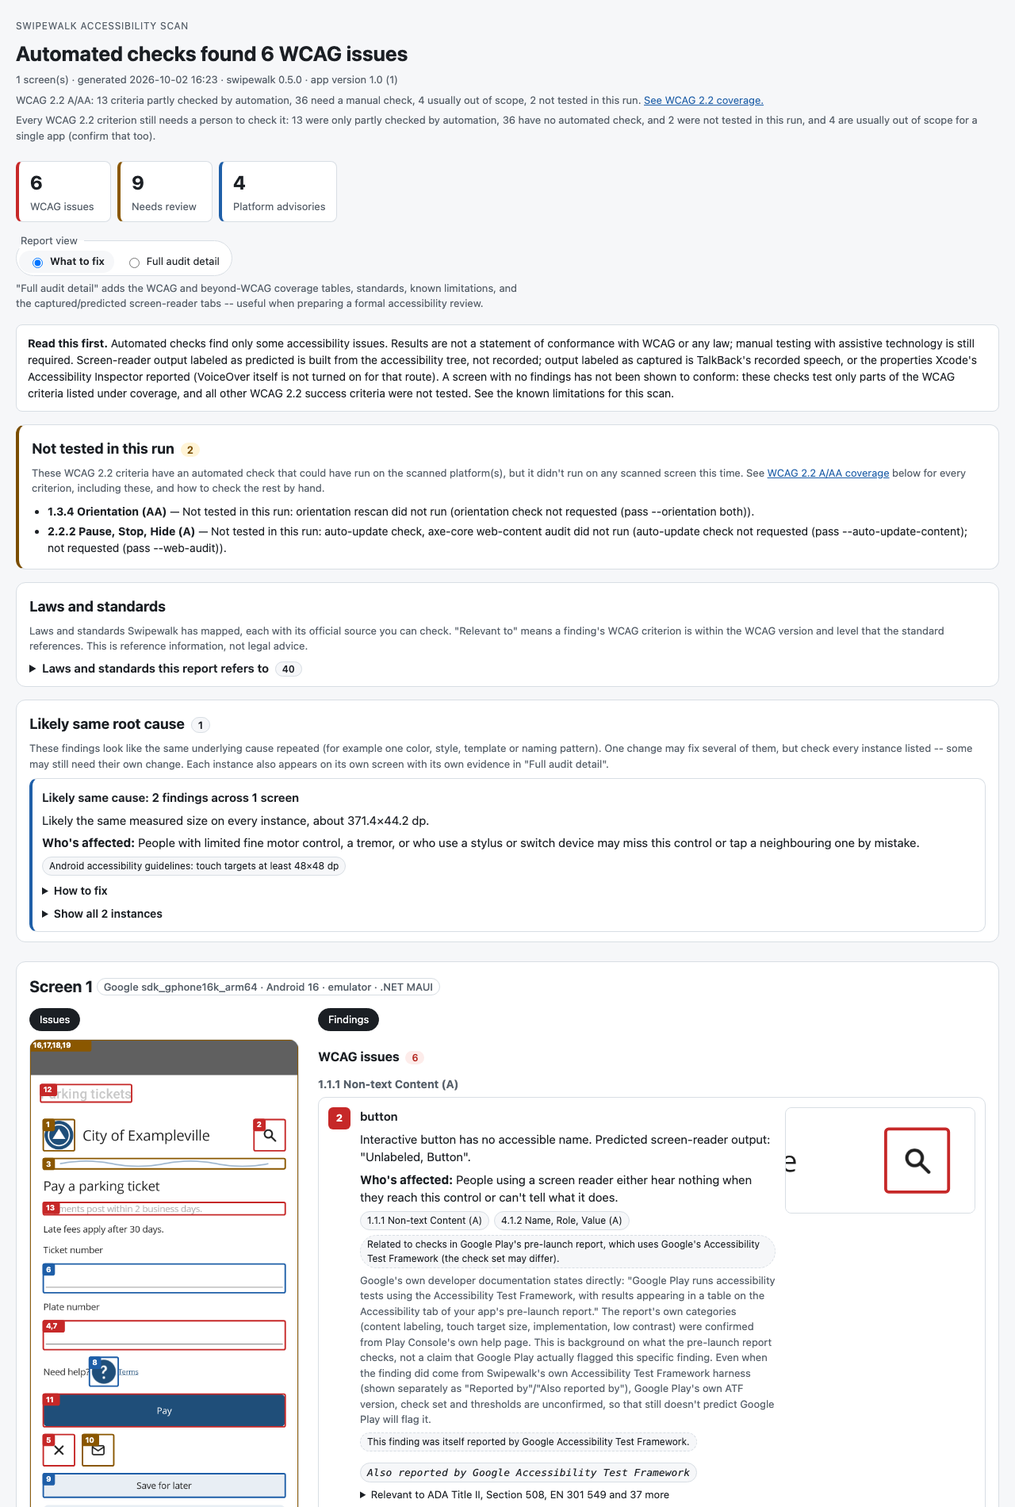
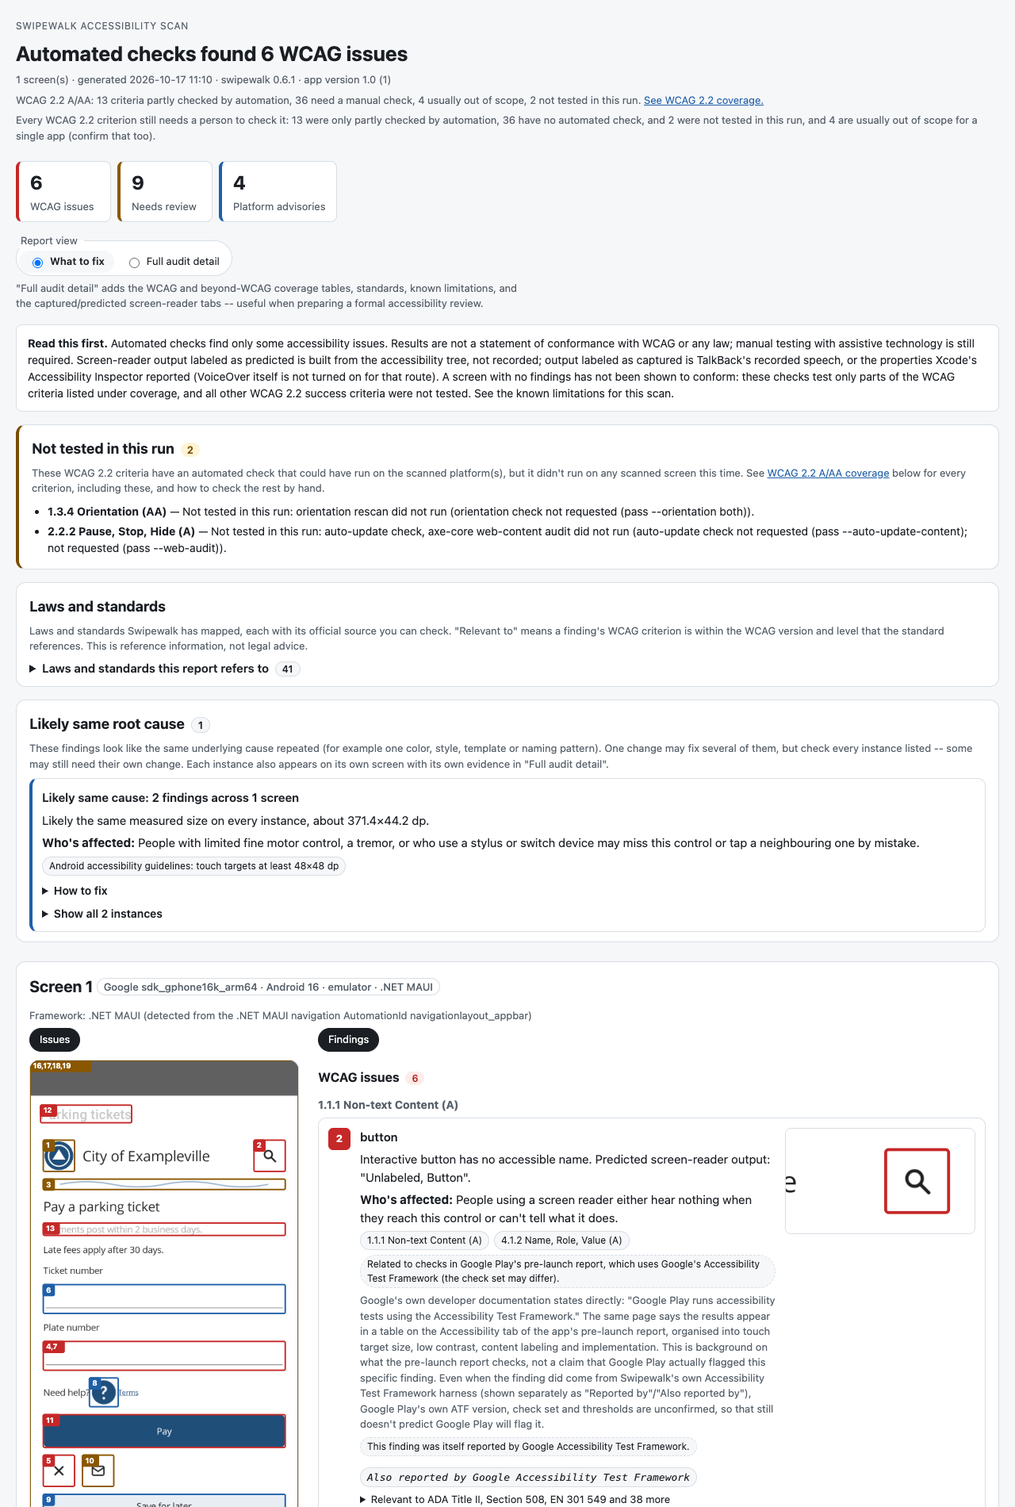
Update the public documentation for Swipewalk 0.6.2

Changed region(s): [[0.0312, 0.6521, 0.75, 1.0], [0.875, 0.7453, 0.9375, 0.8074]]

diff --git a/docs/standards.md b/docs/standards.md
@@ -16,7 +16,7 @@ Every mapping below links to its official source, so you can check how it applie
 | EN 301 549 v4.1.1 (`en-301-549-v4`) — European Union (and EEA) | [WCAG 2.2 AA](https://www.w3.org/TR/WCAG22/) | ICT products and services, including mobile apps (clause 11: non-web software); WCAG 2.2-aligned edition. | [source](https://www.etsi.org/deliver/etsi_en/301500_301599/301549/04.01.01_60/en_301549v040101p.pdf) | [archived copy](https://web.archive.org/web/20260923142717/https://www.etsi.org/deliver/etsi_en/301500_301599/301549/04.01.01_60/en_301549v040101p.pdf) | 2026-10-09 |
 | Public Sector Bodies (Websites and Mobile Applications) (No. 2) Accessibility Regulations 2018 (`uk-public-sector`) — United Kingdom | [WCAG 2.2 AA](https://www.w3.org/TR/WCAG22/) | Public sector websites and mobile apps developed for use by the public. The regulations name no WCAG version; GOV.UK guidance sets WCAG 2.2 AA. | [source](https://www.gov.uk/guidance/accessibility-requirements-for-public-sector-websites-and-apps) | [archived copy](https://web.archive.org/web/20260920020711/https://www.gov.uk/guidance/accessibility-requirements-for-public-sector-websites-and-apps) | 2026-10-09 |
 
-## Rule sources (ruleset 2026.09.46)
+## Rule sources (ruleset 2026.09.47)
 
 Reports record these versions. Later changes to WCAG, laws or platform guidelines are not reflected until Swipewalk is updated; the HTML report warns when a mapping was last reviewed more than a year earlier.
 
@@ -168,7 +168,7 @@ These are included by default, like the standards above: each issue's "Relevant 
 | Michigan SOM IT Technical Standard 1360.00.11, SOM Digital Standards for Websites and Applications (`us-mi`) — United States — Michigan | [WCAG 2.1 AA](https://www.w3.org/TR/WCAG21/) | Michigan executive branch departments' websites and applications, web and mobile. | [source](https://www.michigan.gov/som/digitalstandards) | [archived copy](http://web.archive.org/web/20260911214408/https://www.michigan.gov/som/digitalstandards) | 2026-10-09 |
 | Nebraska NITC Standard 2-101, Accessibility Policy (`us-ne`) — United States — Nebraska | [WCAG 2.1 AA](https://www.w3.org/TR/WCAG21/) | Nebraska state agencies' information and communication technology. | [source](https://nitc.nebraska.gov/docs/2-101.pdf) | [archived copy](https://web.archive.org/web/20260420223107/https://nitc.nebraska.gov/docs/2-101.pdf) | 2026-10-09 |
 | Nevada ADA Technology Accessibility Guidelines (OCIO Control No. 101, Rev. 2.1) (`us-nv`) — United States — Nevada | [WCAG 2.1 AA](https://www.w3.org/TR/WCAG21/) | Nevada state entities' information and communication technology, including software. | [source](https://judicial.nv.gov/uploadedFiles/adanewnvgov/content/Partners/Policies/ADA_WebsiteGuidelines_7-22-19.pdf) | [archived copy](http://web.archive.org/web/20191104205819/http://judicial.nv.gov:80/uploadedFiles/adanewnvgov/content/Partners/Policies/ADA_WebsiteGuidelines_7-22-19.pdf) | 2026-10-09 |
-| New Hampshire Information Technology Accessibility Policy (NHS0305, v4) (`us-nh`) — United States — New Hampshire | [WCAG 2.1 AA](https://www.w3.org/TR/WCAG21/) | New Hampshire state agencies' web content and mobile applications. | [source](https://www.nh.gov/sites/g/files/ehbemt936/files/documents/information-technology-accessibility-policy.pdf) | — | 2026-09-30 |
+| New Hampshire Information Technology Accessibility Policy (NHS0305, v4) (`us-nh`) — United States — New Hampshire | [WCAG 2.1 AA](https://www.w3.org/TR/WCAG21/) | New Hampshire state agencies' web content and mobile applications. | [source](https://www.nh.gov/sites/g/files/ehbemt936/files/documents/information-technology-accessibility-policy.pdf) | — | 2026-10-16 |
 | North Carolina Digital Accessibility and Usability Standard, v1.1 (`us-nc`) — United States — North Carolina | [WCAG 2.1 AA](https://www.w3.org/TR/WCAG21/) | North Carolina state agencies' public-facing digital services, including mobile apps. | [source](https://it.nc.gov/documents/digital-accessibility-usability-standard/open) | [archived copy](http://web.archive.org/web/20260813113615/https://it.nc.gov/documents/digital-accessibility-usability-standard/open) | 2026-10-09 |
 | Ohio Administrative Policy IT-09, Digital Accessibility (`us-oh`) — United States — Ohio | [WCAG 2.1 AA](https://www.w3.org/TR/WCAG21/) | Web content and mobile apps that Ohio state agencies, boards and commissions under the Governor make available to the public. | [source](https://das.ohio.gov/technology-and-strategy/policies/it-09) | — | 2026-10-13 |
 | Pennsylvania Digital Accessibility Policy (`us-pa`) — United States — Pennsylvania | [WCAG 2.1 AA](https://www.w3.org/TR/WCAG21/) | Pennsylvania offices and agencies' digital content and services. | [source](https://www.pa.gov/content/dam/copapwp-pagov/en/oa/documents/policies/it-policies/digital%20accessibility%20policy.pdf) | — | 2026-10-09 |
@@ -203,7 +203,7 @@ Researched, but not mapped as a standard, each with one short reason. Only "no r
 | [California (agency websites, Gov. Code §11546.7)](https://leginfo.legislature.ca.gov/faces/codes_displaySection.xhtml?lawCode=GOV&sectionNum=11546.7) | websites only | 2026-09-26 |
 | [New Jersey (K-12 schools, N.J.S.A. 18A:36-35.1)](https://law.justia.com/codes/new-jersey/title-18a/section-18a-36-35-1/) | websites only | 2026-09-26 |
 | [New Jersey (State agencies, P.L.2025, c.289)](https://pub.njleg.gov/bills/2024/PL25/289_.HTM) | websites only | 2026-10-13 |
-| [Idaho](https://ita.idaho.gov/wp-content/uploads/2025/07/S5120-ADA.pdf) | websites only | 2026-09-26 |
+| [Idaho](https://ita.idaho.gov/wp-content/uploads/2025/07/S5120-ADA.pdf) | websites only | 2026-10-16 |
 | [Iowa](https://ocio.iowa.gov/sites/default/files/standards/2017-07/website_accessibility_standard_2017.pdf) | websites only | 2026-09-26 |
 | [Ontario, Canada](https://www.ontario.ca/laws/regulation/110191) | websites only | 2026-10-13 |
 | [Canada (federal)](https://laws-lois.justice.gc.ca/eng/regulations/SOR-2021-241/nifnev.html) | not in force yet | 2026-09-26 |
@@ -230,7 +230,7 @@ Researched, but not mapped as a standard, each with one short reason. Only "no r
 |---|---|---|---|
 | Apple | [Human Interface Guidelines: Accessibility](https://developer.apple.com/design/human-interface-guidelines/accessibility) -- Apple's own HIG names the WCAG AA contrast thresholds directly (4.5:1 up to 17pt; 3:1 at 18pt or for bold text of any size -- WCAG's own large-text 3:1 threshold is 18pt, or 14pt bold, so HIG's "bold at any size" allowance is slightly looser) and recommends letting people enlarge text by at least 200 percent (matching WCAG 1.4.4). Apple's own default iOS/iPadOS touch target is 44x44pt, with a stated minimum of 28x28pt -- both numerically larger than WCAG 2.5.8's 24x24 CSS px minimum, though the units differ, so don't treat this as a strict comparison. | 1.4.3, 1.4.4, 1.4.1, 2.5.8, 4.1.2 | 2026-09-25 |
 | Apple | [Accessibility Nutrition Labels](https://developer.apple.com/help/app-store-connect/manage-app-accessibility/overview-of-accessibility-nutrition-labels) -- Nine labelable features (VoiceOver, Voice Control, Larger Text, Dark Interface, Differentiate Without Color Alone, Sufficient Contrast, Reduced Motion, Captions, Audio Descriptions) are, in Swipewalk's own mapping, related to these WCAG criteria -- Apple's page does not itself cite WCAG. Currently voluntary; Apple has stated intent to make it mandatory later, with no date confirmed, and says it may contact a developer if a label looks intentionally misleading or harmful. | 1.4.3, 1.4.4, 1.4.1, 2.3.3 (AAA), 1.2.2, 1.2.4, 1.2.1, 1.2.3, 1.2.5 | 2026-09-25 |
-| Google Play | [Pre-launch report (Accessibility Test Framework)](https://developer.android.com/guide/topics/ui/accessibility/testing) -- Google's own developer documentation states directly: "Google Play runs accessibility tests using the Accessibility Test Framework, with results appearing in a table on the Accessibility tab of your app's pre-launch report." The report's own categories (content labeling, touch target size, implementation, low contrast) were confirmed from Play Console's own help page. This is background on what the pre-launch report checks, not a claim that Google Play actually flagged this specific finding. Even when the finding did come from Swipewalk's own Accessibility Test Framework harness (shown separately as "Reported by"/"Also reported by"), Google Play's own ATF version, check set and thresholds are unconfirmed, so that still doesn't predict Google Play will flag it. | 4.1.2, 2.5.8, 1.4.3, 1.1.1 | 2026-09-25 |
+| Google Play | [Pre-launch report (Accessibility Test Framework)](https://developer.android.com/guide/topics/ui/accessibility/testing) -- Google's own developer documentation states directly: "Google Play runs accessibility tests using the Accessibility Test Framework." The same page says the results appear in a table on the Accessibility tab of the app's pre-launch report, organised into touch target size, low contrast, content labeling and implementation. This is background on what the pre-launch report checks, not a claim that Google Play actually flagged this specific finding. Even when the finding did come from Swipewalk's own Accessibility Test Framework harness (shown separately as "Reported by"/"Also reported by"), Google Play's own ATF version, check set and thresholds are unconfirmed, so that still doesn't predict Google Play will flag it. | 4.1.2, 2.5.8, 1.4.3, 1.1.1 | 2026-10-16 |
 
 ## Criteria Swipewalk maps findings to
 

diff --git a/docs/accessibility-statement.md b/docs/accessibility-statement.md
@@ -6,7 +6,7 @@ app for macOS, the HTML reports it produces, and the PDF it can export (`swipewa
 not a statement of conformance: automated and developer testing cannot show that software meets every
 requirement, and some checks listed below still need to be done by people who use assistive technology every day.
 
-Last reviewed: 2026-10-13 (the Laws and standards page search box now uses the filter-box style; not yet re-tested); earlier: 2026-10-09 (added the Known issues row on VoiceOver and the Report page: one Mac, macOS 27, scripted VoiceOver and a minimal test app; a person has not checked it); earlier: 2026-10-08 (the generated reports were run through axe-core, read by hand and read with a scripted VoiceOver in Safari, with fixes; not walked with VoiceOver by a person); earlier: 2026-10-07 (read again against the 0.6.0 changes; nothing was re-tested since the checks of 2026-10-06 below); earlier: 2026-10-06 (keyboard and VoiceOver gaps from the 0.5 hands-on check re-tested with real key presses and a scripted VoiceOver, not by a person, most no longer reproduce in those checks (Escape, arrow keys and the clear button added); a person has not re-checked them yet; see What we have done and Known issues); earlier: 2026-10-03 (known keyboard and VoiceOver gaps added to Known issues, from a hands-on check of version 0.5); earlier review notes: 2026-10-01; the items added for 0.4.2 (the More checks section and iPhone signing choice on New scan, the iPhone signing choice on the Devices and Screen reader session pages, the Compare runs choices, the team triage file field, the Help pages that list the automated checks and known limitations, and the keyboard handling of checkboxes and pop-up menus) were reviewed by the developers only and checked with UI tests, not by a person using VoiceOver or the keyboard (see Known issues); the items added for 0.4.0 were reviewed on macOS 27 (desktop app 0.4.0), and the items added for 0.4.1 (the Laws and standards page, Laws that matter to me, the welcome screen, File > New Scan and the Law or standard choice when exporting) were reviewed by the developers only: none has been walked with VoiceOver by a person yet (see Known issues). The items added for 0.5 (including the Law or standard Search sheet and the diagnostic report and unexpected-close notice) were reviewed by the developers only, except that a person checked the New scan checkbox, the What to scan menu and the Search sheet with the keyboard and VoiceOver, and the Law or standard menu with the keyboard only, on 2026-10-03 (see Known issues). The PDF export section below was last checked on 2026-09-27.
+Last reviewed: 2026-10-19 (read again for 0.6.2; no app screen changed since 0.6.1); earlier: 2026-10-13 (the Laws and standards page search box now uses the filter-box style; not yet re-tested); earlier: 2026-10-09 (added the Known issues row on VoiceOver and the Report page: one Mac, macOS 27, scripted VoiceOver and a minimal test app; a person has not checked it); earlier: 2026-10-08 (the generated reports were run through axe-core, read by hand and read with a scripted VoiceOver in Safari, with fixes; not walked with VoiceOver by a person); earlier: 2026-10-07 (read again against the 0.6.0 changes; nothing was re-tested since the checks of 2026-10-06 below); earlier: 2026-10-06 (keyboard and VoiceOver gaps from the 0.5 hands-on check re-tested with real key presses and a scripted VoiceOver, not by a person, most no longer reproduce in those checks (Escape, arrow keys and the clear button added); a person has not re-checked them yet; see What we have done and Known issues); earlier: 2026-10-03 (known keyboard and VoiceOver gaps added to Known issues, from a hands-on check of version 0.5); earlier review notes: 2026-10-01; the items added for 0.4.2 (the More checks section and iPhone signing choice on New scan, the iPhone signing choice on the Devices and Screen reader session pages, the Compare runs choices, the team triage file field, the Help pages that list the automated checks and known limitations, and the keyboard handling of checkboxes and pop-up menus) were reviewed by the developers only and checked with UI tests, not by a person using VoiceOver or the keyboard (see Known issues); the items added for 0.4.0 were reviewed on macOS 27 (desktop app 0.4.0), and the items added for 0.4.1 (the Laws and standards page, Laws that matter to me, the welcome screen, File > New Scan and the Law or standard choice when exporting) were reviewed by the developers only: none has been walked with VoiceOver by a person yet (see Known issues). The items added for 0.5 (including the Law or standard Search sheet and the diagnostic report and unexpected-close notice) were reviewed by the developers only, except that a person checked the New scan checkbox, the What to scan menu and the Search sheet with the keyboard and VoiceOver, and the Law or standard menu with the keyboard only, on 2026-10-03 (see Known issues). The PDF export section below was last checked on 2026-09-27.
 
 ## What we test against
 

diff --git a/docs/user-guide.md b/docs/user-guide.md
@@ -88,6 +88,7 @@ the full detail on each platform.
 2. [Set up a device](#2-set-up-a-device)
 3. [First scan](#3-first-scan)
    - [Try Swipewalk on the sample app](#try-swipewalk-on-the-sample-app)
+   - [How Swipewalk relates to Apple's and Google's tools](#how-swipewalk-relates-to-apples-and-googles-tools)
 4. [Reading a report](#4-reading-a-report)
 5. [Record mode and the large-text check](#5-record-mode-and-the-large-text-check)
 6. [CI and history](#6-ci-and-history)
@@ -386,6 +387,47 @@ physical phone too — but, like them, it's scan only for now; record and the de
 it yet.
 
 When it finishes, open `report/report.html` in a browser.
+
+### How Swipewalk relates to Apple's and Google's tools
+
+Apple and Google both ship free accessibility tools, and Swipewalk builds on them rather than
+replacing them:
+
+- **iOS: Apple's accessibility audit.** Every iOS scan runs Apple's XCTest accessibility audit
+  (`performAccessibilityAudit`) through a small helper and includes its issues, next to Swipewalk's
+  own checks. With `--screen-reader`, Swipewalk also drives Xcode's Accessibility Inspector to
+  record the label, value and traits of each element the Inspector reaches, after asking for the
+  macOS Accessibility permission it needs and a one-time setup step by you (choosing the device and
+  clicking the first element; see section 4). The Inspector is Apple's tool, and Swipewalk only
+  operates it.
+- **Android: Google's Accessibility Test Framework.** Google's documentation says its
+  Accessibility Scanner app "uses the Accessibility Test Framework". On each Android scan,
+  Swipewalk installs a small helper on the device that runs that framework (version 4.1.1) against
+  your app and adds its findings; if the helper can't install or run, the scan continues and the
+  report says Google's checks didn't run and why. Google doesn't say which version or checks the
+  Scanner app uses, so results may differ. Swipewalk does not run the Accessibility Scanner app
+  itself.
+
+What Swipewalk adds on top:
+
+- findings are mapped to WCAG 2.2 success criteria (or marked as platform advisories), with who is
+  affected and the laws and standards they are relevant to where Swipewalk knows them;
+- optional rescans (`--large-text`, `--appearance both`, `--orientation both`) at a larger text size, in the other dark/light appearance and in the other orientation
+  (see [the large-text check](#5-record-mode-and-the-large-text-check) and the scan options above);
+- on Android, the text TalkBack produced for each element it focused (`--screen-reader`), next to
+  the predicted announcement;
+- fix examples for .NET MAUI and other frameworks, and the likely source line for a finding when
+  you give it your project folder (see [section 12](#12-finding-the-likely-source-line-net-maui-native-android-native-ios-react-native-flutter));
+- scans are saved in History on your computer (unless you pass `--no-history`), so you can come back to them later, compare two
+  runs, export findings (see [section 10](#10-exporting-findings)), share a run
+  (see [section 13](#13-sharing-a-run)) and mark findings as already looked at
+  (see [section 11](#11-triage-mark-a-finding-as-already-looked-at)).
+
+Swipewalk has not been compared with Apple's or Google's tools
+check by check, so don't assume it finds everything they find, or the other way round. Use their
+tools too (Xcode's Accessibility Inspector, including its Audit, and Google's Accessibility Scanner), and
+remember that automated checks find only part of what WCAG asks for. None of them replaces testing
+with a screen reader (VoiceOver or TalkBack) and, ideally, with disabled people.
 
 ## 4. Reading a report
 

diff --git a/docs/limitations.md b/docs/limitations.md
@@ -485,7 +485,7 @@ Swipewalk finds some accessibility issues automatically. This page lists what it
 
 - **What:** A MAUI Label (or other view) with a TapGestureRecognizer is not marked clickable in Android's accessibility tree, so the scanner doesn't see it as a control.
 - **Impact:** Target size and naming checks are skipped for such elements. Their button role is not exposed (4.1.2 Name, Role, Value), and TalkBack users may not be able to activate them.
-- **Check manually:** With TalkBack on, double-tap every tappable text or image and check it works. Prefer Button or ImageButton; SemanticProperties.Description adds a name but not a button role or activation.
+- **Check manually:** With TalkBack on, double-tap every tappable text or image and check it works. Prefer Button or ImageButton; a name alone doesn't add a button role or activation.
 
 ## iOS · Other / native
 
@@ -499,13 +499,13 @@ Swipewalk finds some accessibility issues automatically. This page lists what it
 
 ## All platforms · .NET MAUI
 
-### MAUI AutomationId is never announced
+### MAUI AutomationId is not an accessible name
 
 `maui-automationid-not-announced` · Framework note · ScreenReader
 
-- **What:** AutomationId becomes the Android resource id and the iOS accessibilityIdentifier. Screen readers do not read it, so a control with only an AutomationId has no name.
-- **Impact:** Controls that rely on AutomationId are reported as missing a name.
-- **Check manually:** Use SemanticProperties.Description for the spoken name and keep AutomationId for tests.
+- **What:** AutomationId becomes the Android resource id and the iOS accessibilityIdentifier. It is meant for tests, not an accessible name, so a control with only an AutomationId has no name in the accessibility tree. In one TalkBack study (BuggyApp on an Android emulator, five system languages), a button with only an AutomationId was announced as its AutomationId ("btnCancelPayment"); where TalkBack took that text from was not determined.
+- **Impact:** Controls that rely on AutomationId are reported as missing a name. Where a screen reader falls back to the raw identifier, people hear developer text instead of a name.
+- **Check manually:** Give the control a real accessible name (a Button's Text; SemanticProperties.Description on an image button; Placeholder on an Entry (on Android, SemanticProperties.Hint on an Entry also works)) and keep AutomationId for tests. Microsoft advises against SemanticProperties.Description on a Label, on an Entry or Editor on Android, and, on iOS, on any control with children.
 
 ### How .NET MAUI apps apply text-size changes
 

diff --git a/README.md b/README.md
@@ -40,6 +40,8 @@ It does **not** certify compliance. Automated checks catch only part of what WCA
 - **VS Code extension (preview):** reads a saved run and marks each finding on the source line it likely comes from. It is read-only, makes no network calls and sends no telemetry, and has been tested on macOS only, by automated tests (nobody has tried it by hand on Windows or Linux yet, and it has not yet been tried with a screen reader). Install it from the [Visual Studio Marketplace](https://marketplace.visualstudio.com/items?itemName=swipewalk.swipewalk-vscode) (search "Swipewalk" in the Extensions view, or run `code --install-extension swipewalk.swipewalk-vscode`); the `.vsix` is also attached to each [release](https://github.com/swipewalk/swipewalk/releases). See [Seeing findings in VS Code](docs/user-guide.md#14-seeing-findings-in-vs-code).
 - **Helpers and diagnostics:** `swipewalk helpers remove` removes the helper apps Swipewalk leaves on a device, after asking, and `swipewalk diagnostics` saves a diagnostic report from a short local log for a bug report, with serial numbers, device names, team IDs and your user name removed by pattern (which can miss something), so read it before attaching it. Nothing is sent anywhere.
 
+Swipewalk builds on Apple's and Google's own tools rather than replacing them: iOS scans include Apple's XCTest accessibility audit, and Android scans run Google's Accessibility Test Framework (the framework Google says its Accessibility Scanner app uses) through a helper on the device, and say so when it couldn't run. It has not been compared with them check by check, so use their tools too; see [how Swipewalk relates to Apple's and Google's tools](docs/user-guide.md#how-swipewalk-relates-to-apples-and-googles-tools).
+
 Automated checks find only part of what WCAG asks for; manual testing is still required. The [user guide](docs/user-guide.md) describes each option.
 
 ## Platform support

diff --git a/ROADMAP.md b/ROADMAP.md
@@ -5,6 +5,15 @@ are welcome: open an issue.
 
 ## Working now
 
+### New in 0.6.2
+
+- Fix advice for a .NET MAUI text field without a name now follows Microsoft's guidance: add a Placeholder (on Android, SemanticProperties.Hint also works) and keep the visible Label, instead of putting SemanticProperties.Description on an Entry or Editor.
+- The AutomationId limitation and the fix advice say it is a test identifier, not an accessible name, and report what one TalkBack study (BuggyApp on an Android emulator) announced for it, instead of saying it is never announced.
+- New in the user guide and README: how Swipewalk relates to Apple's accessibility audit and Google's Accessibility Test Framework, and that it has not been compared with them check by check.
+- Laws and standards re-read again (ruleset 2026.09.47): New Hampshire's policy text and Idaho's standard were read again (New Hampshire's mapping and Idaho's websites-only listing unchanged), Google Play's pre-launch report note now quotes only what Google's page states, and "checked on" dates moved for those entries.
+- Report screenshots in the documentation were re-rendered from a recent build (their header shows 0.6.1).
+- Fixed: an iOS device name that only starts with an Apple model word, such as "iPhone Dana", is no longer kept in saved and shared runs when the model is unknown; it is saved as "iOS device". Names that are a whole Apple model name (such as "iPad" or "iPhone 15 Pro") are kept as before.
+
 ### New in 0.6.1
 
 - Fixed: since 0.5, a device named just "iPad" could rewrite another device's model name ("iPad Air (5th generation)") in shared
